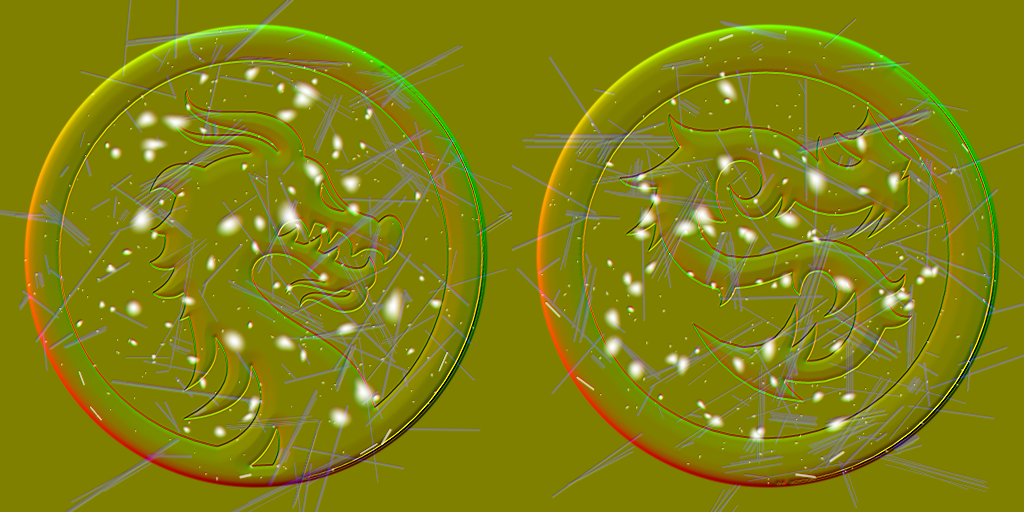
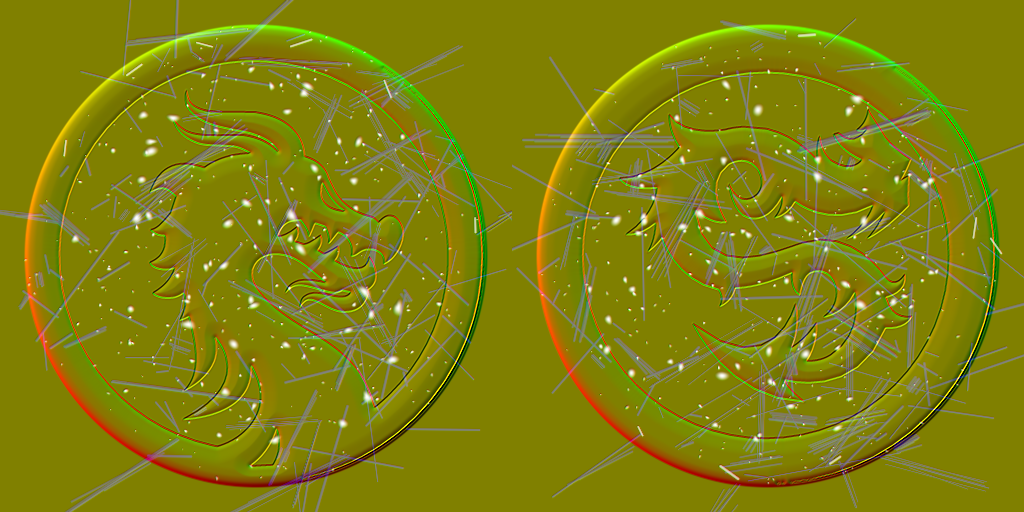
Shrink the coin's dents to handling marks
Up close the dents read as blisters: radii of 0.16 to 0.72mm, stretched up
to 1.8x, ran past 2mm across on a 25mm coin, and their smooth bowls caught
the light like droplets on the relief. A handling mark is a few tenths of
a millimetre, so they are now 120 at 0.08 to 0.32mm in radius and
shallower. The toning's blotches run at a millimetre rather than two: at
the reveal's range the coarser ones read as flakes of something rather
than as toning. Rendered on coin:look before and after.

Claude-Session: https://claude.ai/code/session_01DY7GLHKDYbddaKqhU954QH

diff --git a/src/scene/coin-material.ts b/src/scene/coin-material.ts
@@ -417,7 +417,9 @@ float coinWallDistance = (coinP.y > 0.0 ? coinWear.r : coinWear.g) * COIN_WEAR_R
 float coinFoot = 1.0 - smoothstep(0.0, 0.1, coinWallDistance);
 float coinFootprint = length(fwidth(coinP));
 float coinGrungeAmount = coinGrunge(coinP, coinFootprint);
-float coinBlotch = coinFbm(coinP * 9.0 + vec3(3.1, 7.7, 1.3));
+// Patches of a millimetre or so, not two: at the reveal's range the coarser
+// ones read as flakes of something rather than as toning.
+float coinBlotch = coinFbm(coinP * 15.0 + vec3(3.1, 7.7, 1.3));
 // The grunge eats into the grime's edges and thins it in flecks, so its
 // patches are ragged rather than soft.
 float coinGrime = uCoinGrime * coinCavity

diff --git a/README.md b/README.md
@@ -1640,6 +1640,16 @@ tile rather than doubling it, 205 texels a centimetre against the reveal's
 pebbles sit under it at half strength, and the hide's roughness map, dry at
 0.66, is scaled toward the satin a finished leather has.
 
+### Its marks, at close range
+
+Up close the first bake's dents read as blisters: radii of 0.16 to 0.72mm,
+stretched up to 1.8x, so the larger ones ran past 2mm across on a 25mm coin,
+and their smooth bowls caught the light like droplets on the relief. A
+handling mark is a few tenths of a millimetre, so they are now 120 at 0.08
+to 0.32mm in radius and shallower, and the toning's blotches run at a
+millimetre rather than two — at the reveal's range the coarser ones read as
+flakes of something rather than as toning.
+
 ## Credits
 
 Coin metal: [Metal007](https://ambientcg.com/view?id=Metal007) from
